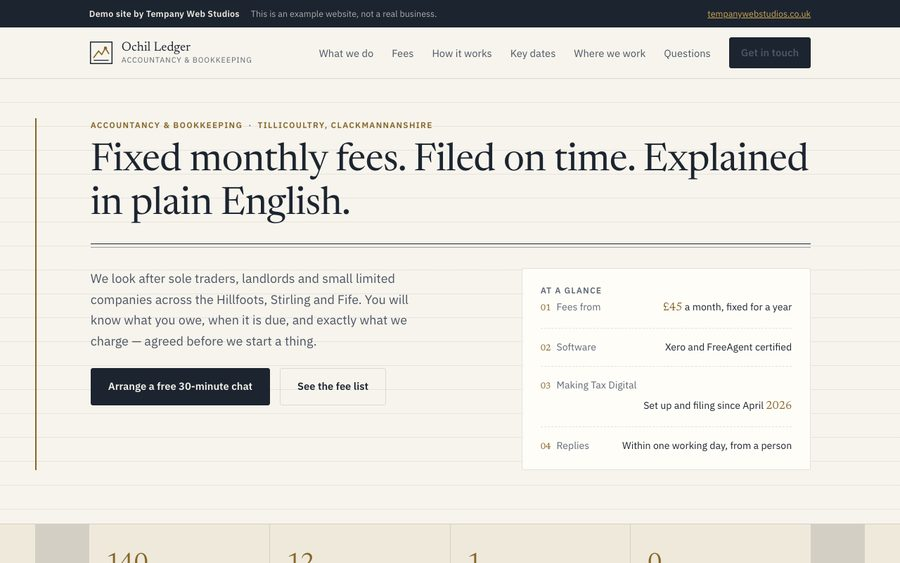
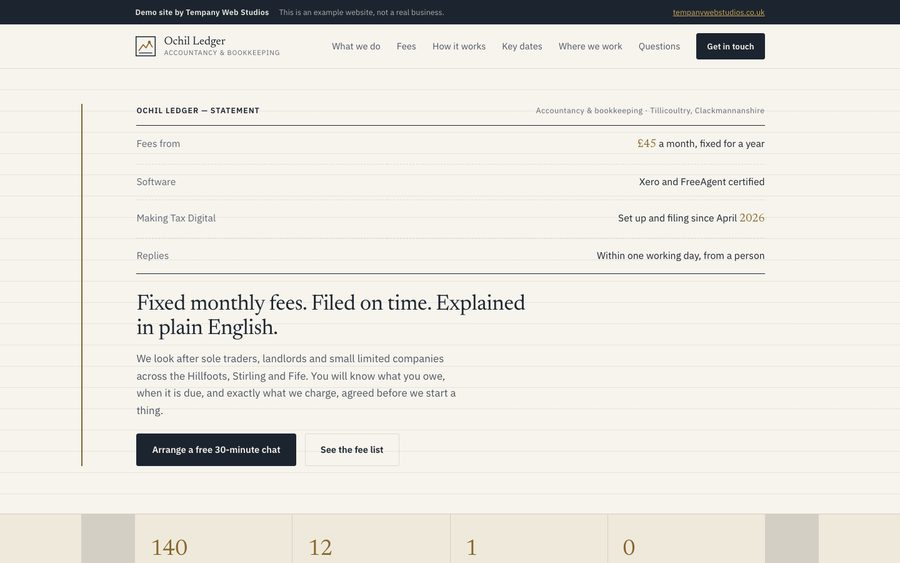
Post-launch fixes: drop the Deli card, default light, sell harder, fresh covers
Four things flagged right after launch:

- Removed Dollar's Deli from the "Attached: proof" list — it was the odd
  one out next to four invented demos (a real, unsolicited concept for an
  actual local shop), and read as out of place. The standalone page at
  /work/dollars-deli/ still exists, just unlinked from the homepage now —
  flagging in case that page should come down too (a drafted cold-outreach
  email may link directly to it).

- Theme now defaults to light on first visit regardless of the visitor's
  OS preference. Previously it read prefers-color-scheme and could open
  dark for anyone with a dark system theme; a saved manual toggle still
  wins either way.

- The page read as too nonchalant to sell on first look — fair, the
  document conceit was carrying the honesty but not stating the outcome.
  Added "Re: the website that earns the phone call." as a bold subject
  line right after the letterhead, before "Hello." — brings back the
  original draft's strongest line as the actual hook, and tightened the
  opening paragraph to lead with the outcome (gets the phone to ring)
  rather than just the pricing-honesty angle.

- Regenerated all four portfolio screenshots. They were taken before this
  week's hero restructuring, so they still showed the old generic layout
  each demo just fixed — a statement table, a technical drawing, a session
  timeline and a class schedule, not what was actually on the page
[…]

diff --git a/index.html b/index.html
@@ -37,7 +37,7 @@
 (function () {
   try {
     var saved = localStorage.getItem('tws-theme');
-    var theme = saved || (matchMedia('(prefers-color-scheme: dark)').matches ? 'dark' : 'light');
+    var theme = saved || 'light';
     document.documentElement.dataset.theme = theme;
   } catch (e) { document.documentElement.dataset.theme = 'light'; }
 })();
@@ -101,9 +101,11 @@
       <div>Issued &mdash; the day you open this page</div>
     </div>
 
+    <p class="quote-subject">Re: <span class="quote-subject-accent">the website that earns the phone call.</span></p>
+
     <section class="opening">
       <p class="opening-greeting">Hello.</p>
-      <p class="opening-body">Most web design studios want a call before they'll give you a number. I think that's backwards. If a price isn't confident enough to put in writing, something's wrong with the price. So here's mine, before you've had to ask.</p>
+      <p class="opening-body">A site that just looks nice isn't doing its job. Most web design studios also want a call before they'll give you a number, and I think that's backwards too. If a price isn't confident enough to put in writing, something's wrong with the price. So here's the whole thing, built to get people to actually pick up the phone, before you've had to ask.</p>
     </section>
 
     <section class="clause">
@@ -196,7 +198,7 @@
       <div class="clause-num">09</div>
       <div class="clause-body">
         <h2>Attached: proof</h2>
-        <p>Five examples of the kind of site &pound;399 buys. Four are demos for trades I haven't worked with yet, so judge the craft, not the client list. One is a concept I built for a real shop in my village without being asked, not commissioned, not affiliated. The first paying client's site is already live &mdash; it joins this list, named and linked, as soon as they've said yes to being shown.</p>
+        <p>Four examples of the kind of site &pound;399 buys, built by me as demos for trades I haven't worked with yet, so judge the craft, not the client list. The first paying client's site is already live &mdash; it joins this list, named and linked, as soon as they've said yes to being shown.</p>
 
         <!-- Jennifer Ellis Yoga attachment — ready to go the moment she consents
              (see JENNIFER-WORK-CARD.md). Needs a thumbnail at
@@ -228,11 +230,6 @@
             <img src="/images/work/stillwater.jpg" alt="Stillwater Yoga demo homepage" width="900" height="563" loading="lazy" decoding="async">
             <span class="attachment-name">Stillwater Yoga <em>&middot; demo</em></span>
             <span class="attachment-desc">Yoga &amp; wellness studio. Timetable and packages built to get a first booking.</span>
-          </a>
-          <a class="attachment" href="/work/dollars-deli/">
-            <img src="/images/work/dollars-deli.jpg" alt="Dollar's Deli concept homepage" width="900" height="563" loading="lazy" decoding="async">
-            <span class="attachment-name">Dollar's Deli <em>&middot; unsolicited concept</em></span>
-            <span class="attachment-desc">Independent deli. Built without being asked, to show rather than tell.</span>
           </a>
         </div>
 

diff --git a/style.css b/style.css
@@ -84,6 +84,8 @@ h2{color:var(--ink);margin:0 0 .5em;font-weight:700;letter-spacing:-.01em;font-s
 }
 .quote-meta .meta-title{color:var(--ink);font-weight:600;grid-column:1/-1;text-align:left}
 
+.quote-subject{font-size:clamp(1.7rem,3.4vw,2.5rem);font-weight:800;color:var(--ink);letter-spacing:-.02em;line-height:1.15;margin:0 0 44px;max-width:20ch}
+.quote-subject-accent{color:var(--accent)}
 .opening{margin-bottom:52px}
 .opening-greeting{font-size:1.5rem;color:var(--ink);font-weight:600;letter-spacing:-.015em;margin:0 0 .55em}
 .opening-body{font-size:1.1rem;max-width:56ch;margin:0}
